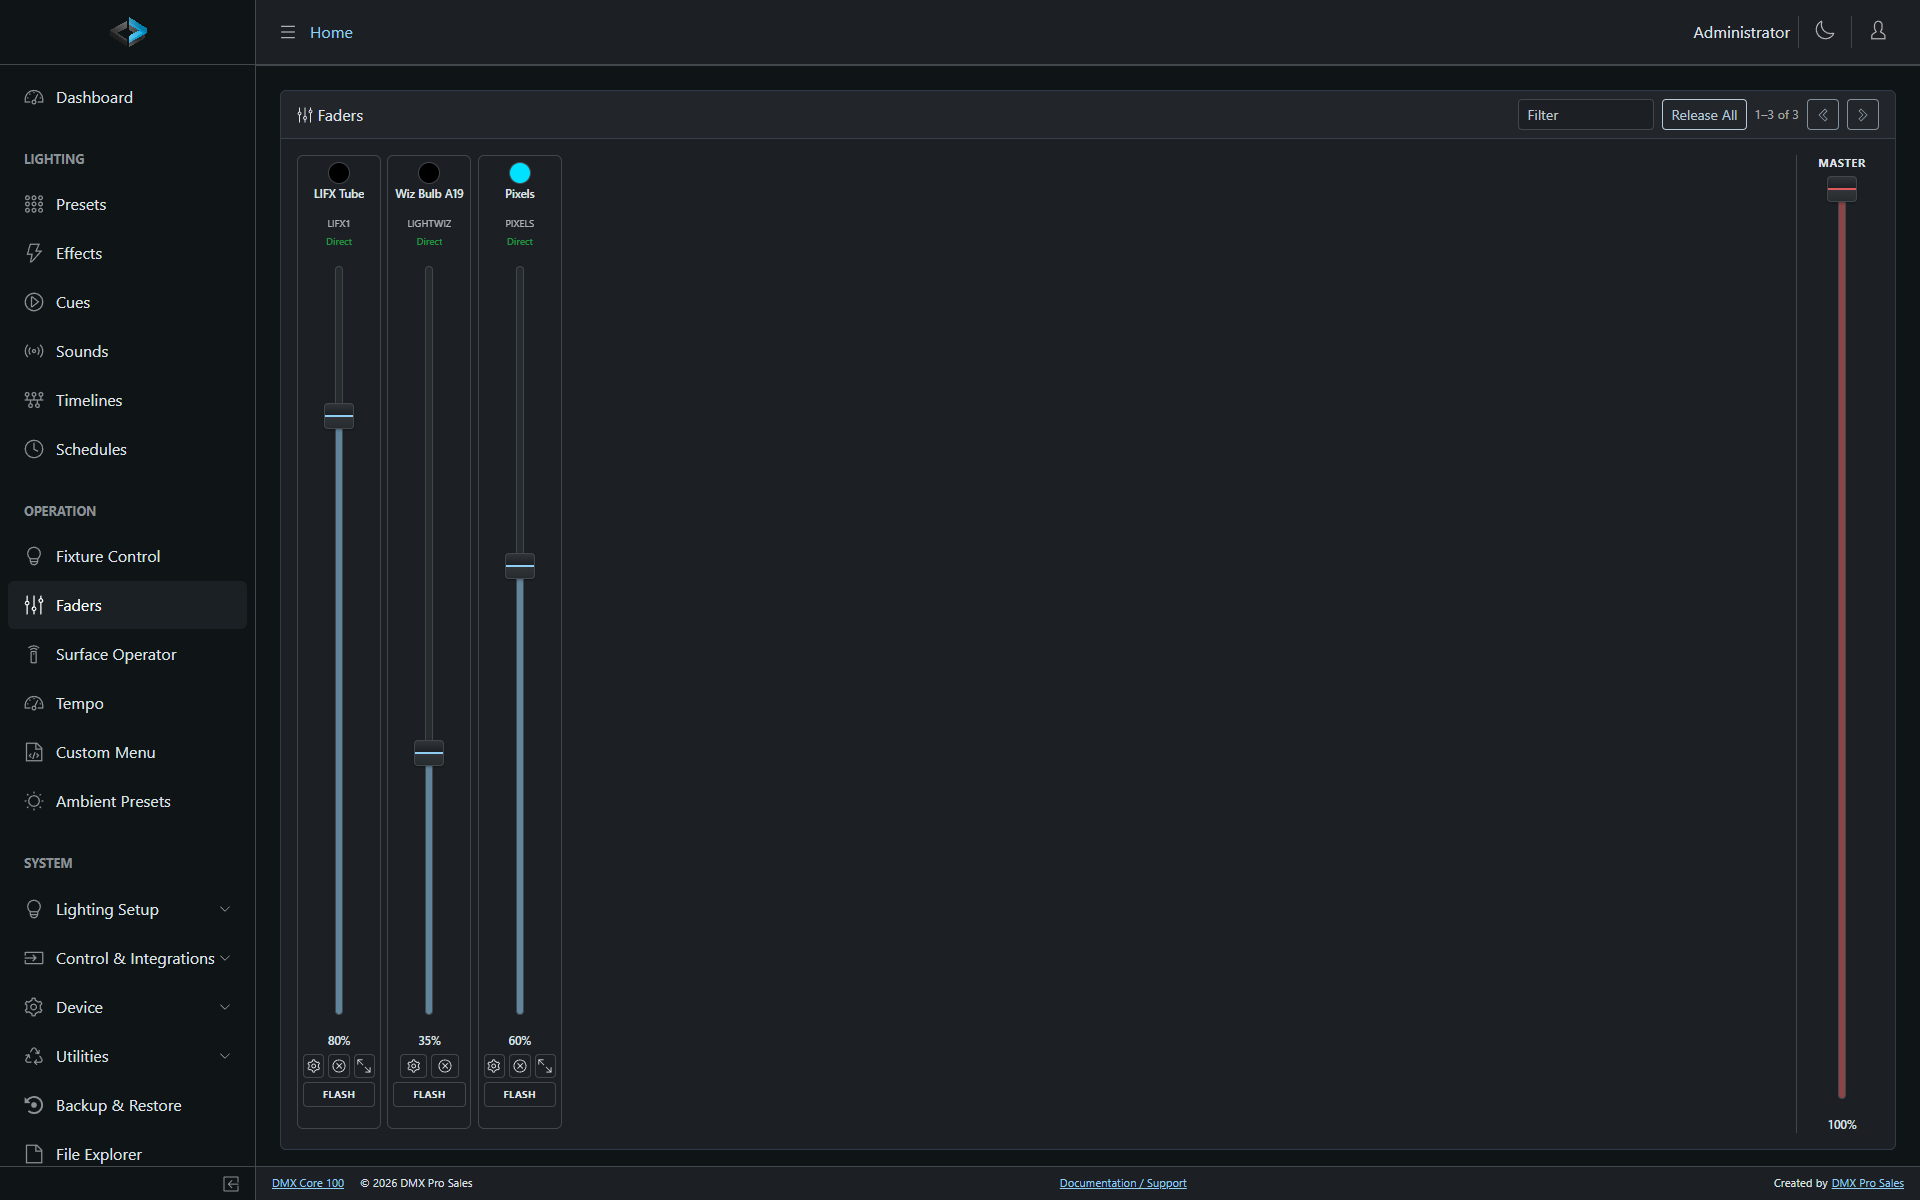
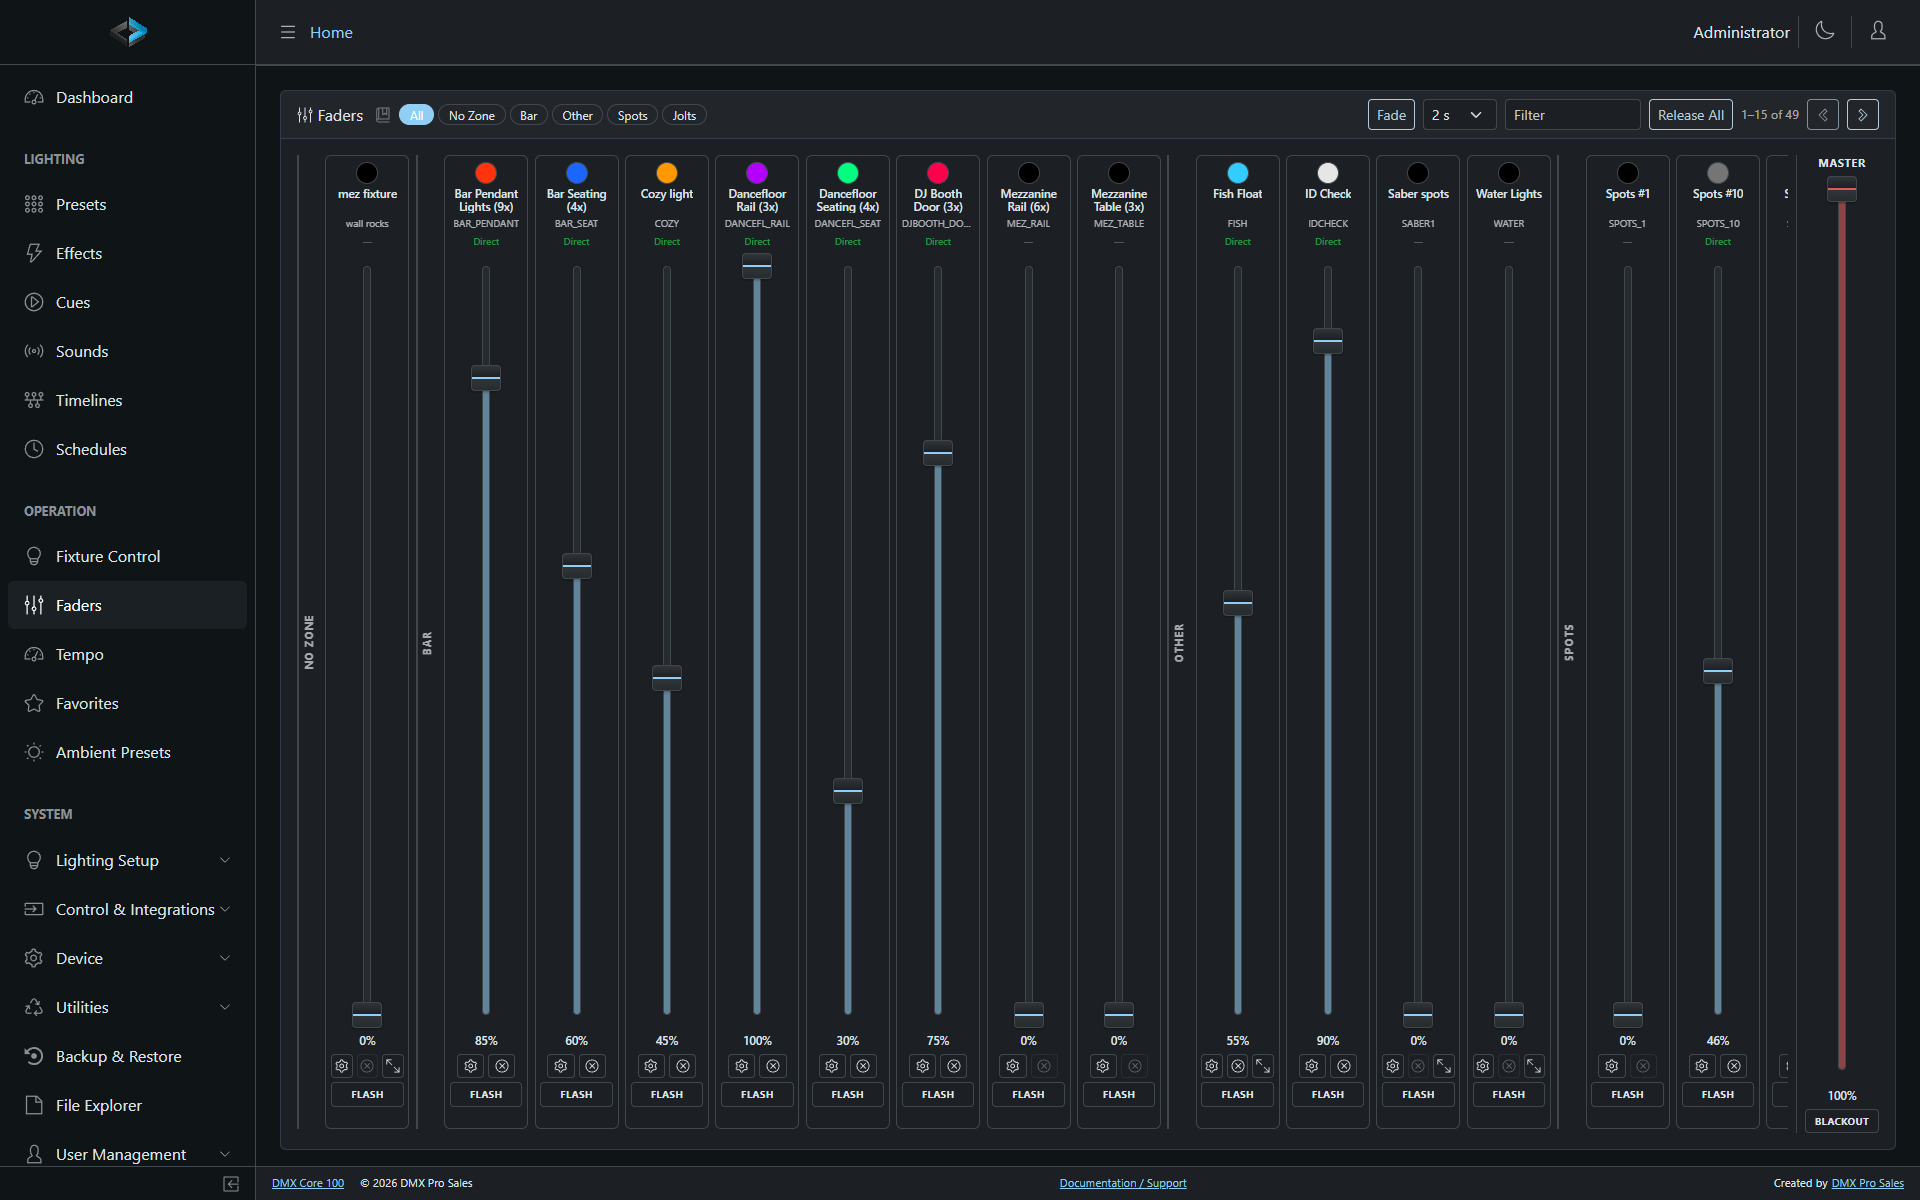
Faders + Fixture Control: document fade mode, Shift+click fades, and Blackout
New "Fading to a Level" / "Fading to a Value" sections covering the fade
mode toggle and duration select, the ghost-cap gesture, Shift+click on
desktop, device-side fades, and grab-mid-fade takeover; the Blackout
button is described under Master and Zone Dimmers. Both page screenshots
refreshed to show the new header controls.

diff --git a/src/content/docs/dmx-core-100/lighting/faders.md b/src/content/docs/dmx-core-100/lighting/faders.md
@@ -21,6 +21,15 @@ Each fixture gets a channel strip showing its current color, name and code, and 
 
 Dragging a fader sideways first and then vertically switches to **fine mode**: vertical movement adjusts the value at a quarter of the normal rate for precise levels.
 
+## Fading to a Level
+
+Faders normally follow your finger — the value changes the moment you press and drag. **Fade mode** turns a press into a smooth transition instead: enable **Fade** in the header, pick a duration next to it (0.5–30 s), and pressing a fader shows a ghost cap at the target level rather than jumping there. Slide the ghost to adjust it (fine mode works here too), then release — the DMX Core 100 fades the fixture to the target over the selected duration while the real cap glides along. On a desktop browser, holding **Shift** while clicking a fader does the same thing without turning fade mode on.
+
+- Fades run on the DMX Core 100 itself, so they continue even if you navigate away or close the browser.
+- Grabbing a fader mid-fade (a normal press) stops the fade and gives you live control again.
+- The gesture works on the fixture faders, the **Master**, and zone **submasters**. **FLASH** and the per-copy trim faders always act instantly.
+- The fade mode toggle and duration are remembered per browser and shared with [Fixture Control](/dmx-core-100/lighting/fixture-control#fading-to-a-value).
+
 ## Banks and Paging
 
 Fixtures are grouped by [Zone](/dmx-core-100/lighting/zones) — each zone is a bank. Chips at the top switch between **All** (with zone separators between groups) and a single zone. With more fixtures than fit on screen, swipe or use the paging arrows; the indicator shows which strips are visible ("13–24 of 61"). The **Filter** box narrows the strips by fixture name or code.
@@ -32,6 +41,8 @@ The selected bank is remembered per browser.
 The **Master** fader on the right edge is the master dimmer — it scales the brightness of everything the fixture engine outputs, and is the same master dimmer that [Custom Menu](/dmx-core-100/scheduling-automation/custom-menus) sliders and OSC can control; changes from anywhere show up here live.
 
 When a single zone bank is selected, that zone's **submaster** fader appears next to the Master. It scales only that zone's fixtures and multiplies with the master dimmer.
+
+**BLACKOUT**, below the Master fader, latches the master dimmer at 0 — press it again to return to the previous level. It is instant by default, and fades over the selected fade duration when fade mode is on (or Shift is held). The button lights whenever the master dimmer is at 0, no matter which client or protocol took it there.
 
 :::note
 Whether the master dimmer also affects **cue playback** is controlled by the *Master Dimmer Cue Control* output setting.

diff --git a/src/content/docs/dmx-core-100/lighting/fixture-control.md b/src/content/docs/dmx-core-100/lighting/fixture-control.md
@@ -32,6 +32,12 @@ When you adjust a fixture's properties through Fixture Control, these are applie
 Modifiers are temporary adjustments. To save a fixture state permanently, create a [Preset](/dmx-core-100/playback/presets) — the **Build Preset** button captures the current look directly.
 :::
 
+## Fading to a Value
+
+Slider changes normally apply live as you drag. Enable **Fade** in the header (with the duration select next to it, 0.5–30 s) and a slider gesture fades instead: release the slider and the DMX Core 100 fades the fixture smoothly to that value over the selected duration — the fade runs on the device itself, so it continues even if you close the browser. On a desktop browser, holding **Shift** while clicking a slider does the same thing without turning fade mode on.
+
+Fading applies to the percentage sliders — intensity, extra color channels, and custom channels. The color wheel and multi-function selectors always apply immediately. The fade mode toggle and duration are remembered per browser and shared with the [Faders](/dmx-core-100/lighting/faders) page, where the same gesture works on the vertical faders and masters (see [Fading to a Level](/dmx-core-100/lighting/faders#fading-to-a-level)).
+
 ## Effects
 
 The Fixture Control page also gives access to the [effects engine](/dmx-core-100/lighting/effects). Select a fixture or zone and use the effects controls to apply animated lighting effects — breathing, fire, pulsing, and more. If multiple zones are configured, each zone has independent effects controls.
